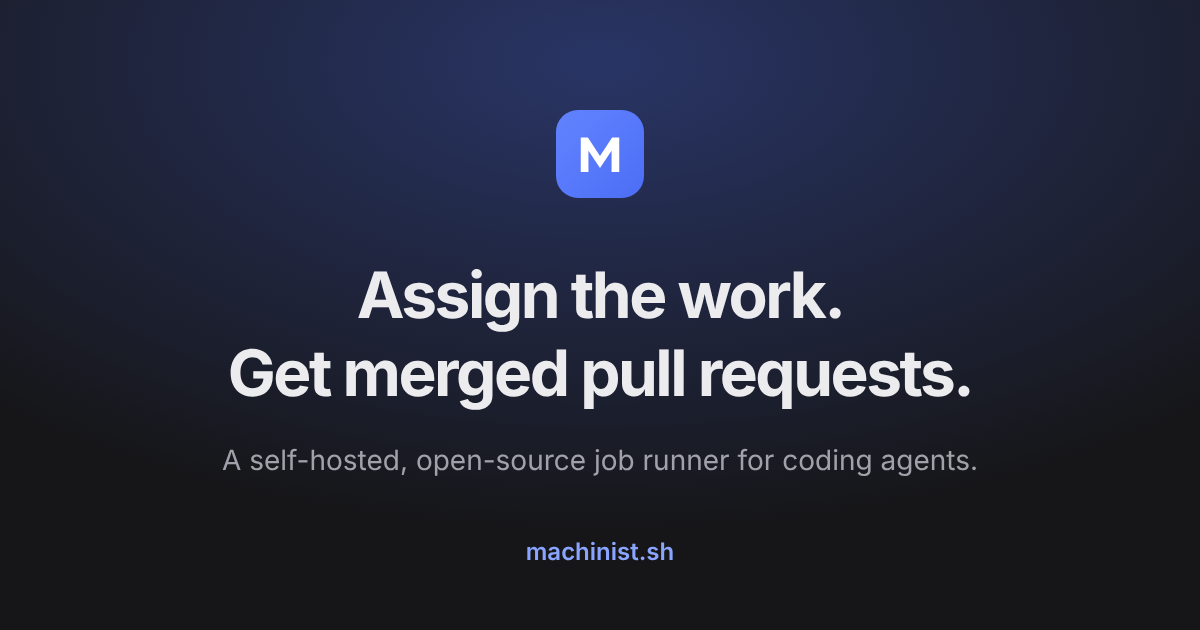
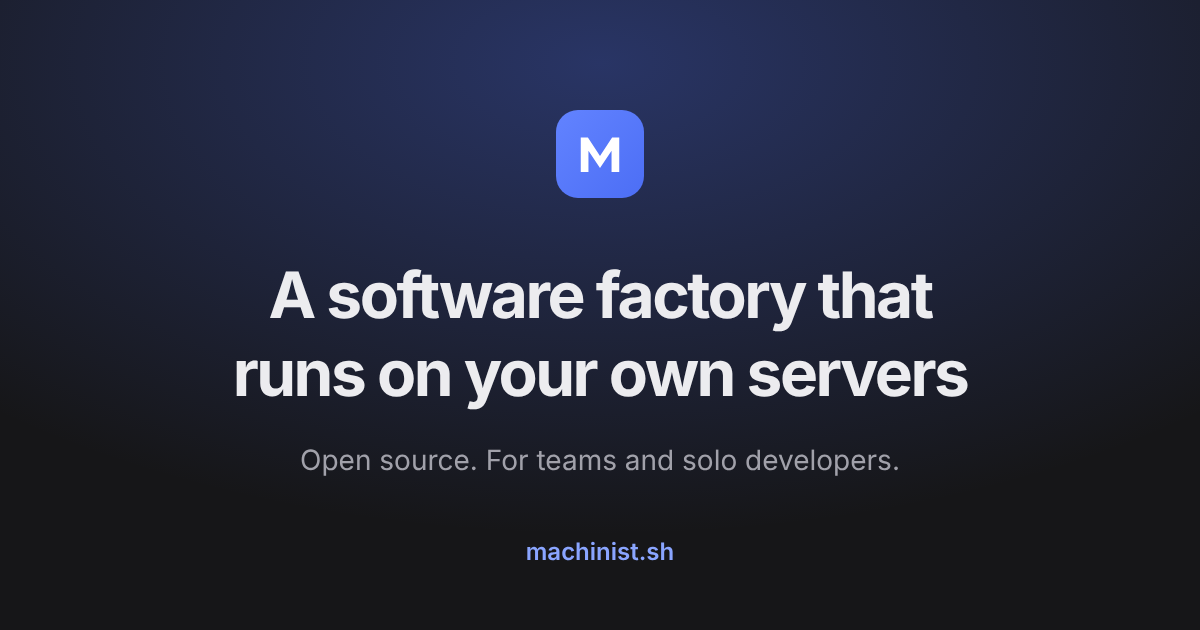
Rewrite the site copy in plain words: what Machinist is and who it is for

Changed region(s): [[0.2158, 0.4222, 0.8017, 0.5429], [0.185, 0.5429, 0.8325, 0.6635], [0.185, 0.6937, 0.8017, 0.754]]

diff --git a/.github/site/index.html b/.github/site/index.html
@@ -3,19 +3,19 @@
   <head>
     <meta charset="utf-8">
     <meta name="viewport" content="width=device-width, initial-scale=1">
-    <meta name="description" content="Machinist is an open-source job runner for coding agents. Assign work from the web app, the run API or Linear, and every job runs the same steps on machines you control.">
+    <meta name="description" content="Machinist is an open-source software factory. It runs on your own servers. It takes coding tasks, runs AI coding agents on them and opens pull requests. It is for teams and solo developers.">
     <meta name="theme-color" content="#161618">
     <meta name="color-scheme" content="dark">
-    <title>Machinist | A job runner for coding agents</title>
+    <title>Machinist | A self-hosted software factory</title>
     <link rel="canonical" href="https://machinist.sh/">
     <meta property="og:type" content="website">
     <meta property="og:url" content="https://machinist.sh/">
-    <meta property="og:title" content="Machinist | A job runner for coding agents">
-    <meta property="og:description" content="Assign the work. Get merged pull requests. Self-hosted and open source.">
+    <meta property="og:title" content="Machinist | A self-hosted software factory">
+    <meta property="og:description" content="An open-source software factory that runs on your own servers. For teams and solo developers.">
     <meta property="og:image" content="https://machinist.sh/og.png">
     <meta name="twitter:card" content="summary_large_image">
-    <meta name="twitter:title" content="Machinist | A job runner for coding agents">
-    <meta name="twitter:description" content="Assign the work. Get merged pull requests. Self-hosted and open source.">
+    <meta name="twitter:title" content="Machinist | A self-hosted software factory">
+    <meta name="twitter:description" content="An open-source software factory that runs on your own servers. For teams and solo developers.">
     <meta name="twitter:image" content="https://machinist.sh/og.png">
     <link rel="icon" href="favicon.svg" type="image/svg+xml">
     <link rel="stylesheet" href="styles.css">
@@ -28,6 +28,7 @@
           <span>Machinist</span>
         </a>
         <nav aria-label="Primary navigation">
+          <a href="#who">Who it is for</a>
           <a href="#how">How it works</a>
           <a href="#presets">Presets</a>
           <a href="https://github.com/owainlewis/machinist/tree/main/docs">Docs</a>
@@ -39,9 +40,9 @@
 
     <main id="top">
       <section class="hero" aria-labelledby="hero-title">
-        <a class="eyebrow-pill" href="https://github.com/owainlewis/machinist"><span>Open source</span>Self-hosted job runner for coding agents <span aria-hidden="true">→</span></a>
-        <h1 id="hero-title">Assign the work.<br>Get merged pull requests.</h1>
-        <p class="lede">Your team assigns work in one place. Every job runs the same steps on machines you control: an agent implements it, a second model reviews it, and Machinist ships it.</p>
+        <a class="eyebrow-pill" href="https://github.com/owainlewis/machinist"><span>Open source</span>MIT licensed, on GitHub <span aria-hidden="true">→</span></a>
+        <h1 id="hero-title">A software factory that runs on your own servers</h1>
+        <p class="lede">Machinist takes coding tasks and turns them into pull requests. AI coding agents do the work. They run on machines you control. Machinist is for teams and for solo developers.</p>
         <div class="hero-actions">
           <a class="button button-light" href="#start">Get started</a>
           <a class="button button-ghost" href="https://github.com/owainlewis/machinist">View on GitHub</a>
@@ -50,7 +51,7 @@
 
         <figure class="video-frame">
           <div class="window-bar" aria-hidden="true"><i></i><i></i><i></i><span>How Machinist works · 0:50</span></div>
-          <video id="explainer" src="machinist.mp4" poster="poster.jpg" autoplay muted loop playsinline preload="metadata" aria-label="A 50-second explainer of how a job moves through Machinist"></video>
+          <video id="explainer" src="machinist.mp4" poster="poster.jpg" autoplay muted loop playsinline preload="metadata" aria-label="A 50-second video that shows how a job moves through Machinist"></video>
           <button class="sound-toggle" type="button" data-sound aria-pressed="false">Sound on</button>
         </figure>
       </section>
@@ -62,30 +63,41 @@
         </ul>
       </section>
 
+      <section class="section" id="who" aria-labelledby="who-title">
+        <div class="section-head">
+          <span class="kicker">Who it is for</span>
+          <h2 id="who-title">Teams and solo developers</h2>
+        </div>
+        <div class="feature-grid feature-grid-two">
+          <article><h3>Teams</h3><p>Everyone sends tasks to one place. Everyone can see what is running and what needs a review. The runners sit on your network, next to your code and keys.</p></article>
+          <article><h3>Solo developers</h3><p>Run Machinist and a runner on your laptop. Hand off a task, then review the pull request. You do not need to watch the agent work.</p></article>
+        </div>
+      </section>
+
       <section class="section" id="how" aria-labelledby="how-title">
         <div class="section-head">
           <span class="kicker">How it works</span>
-          <h2 id="how-title">One job. Five steps. No babysitting.</h2>
-          <p>A job runs headless from start to finish and never stops to ask a question. When the agent has to guess, it says so in the pull request.</p>
+          <h2 id="how-title">How a job runs</h2>
+          <p>Each task is a job. A job runs the same steps every time. It does not stop to ask questions. If an agent has to guess, it says so in the pull request.</p>
         </div>
         <ol class="steps">
-          <li><span class="step-index">01</span><h3>Assign</h3><p>Start a job from the New job form, the run API, or by assigning a Linear issue to Machinist.</p></li>
-          <li><span class="step-index">02</span><h3>Checkout</h3><p>A runner on your own machine takes the job and clones the repository onto its own branch.</p></li>
-          <li><span class="step-index">03</span><h3>Implement</h3><p>An agent makes the change, with tests that prove it, and runs the repository's own checks.</p></li>
-          <li><span class="step-index">04</span><h3>Review</h3><p>A second model family reads the diff cold. A revise step fixes any clear finding.</p></li>
-          <li><span class="step-index">05</span><h3>Ship</h3><p>A ready pull request with a clear description. Once checks pass and the review is clean, it merges.</p></li>
+          <li><span class="step-index">01</span><h3>Task</h3><p>Start a job from the web app, the run API or a Linear issue.</p></li>
+          <li><span class="step-index">02</span><h3>Checkout</h3><p>A runner takes the job. It clones the repository onto a new branch.</p></li>
+          <li><span class="step-index">03</span><h3>Implement</h3><p>An agent makes the change. It adds tests and runs the repository's checks.</p></li>
+          <li><span class="step-index">04</span><h3>Review</h3><p>An agent on a different model reviews the change. A revise step fixes what it finds.</p></li>
+          <li><span class="step-index">05</span><h3>Ship</h3><p>Machinist opens a pull request. It merges when CI passes and the review is clean. A Linear issue moves to Done.</p></li>
         </ol>
       </section>
 
       <section class="section split" id="presets" aria-labelledby="presets-title">
         <div class="split-copy">
           <span class="kicker">Presets and agents</span>
-          <h2 id="presets-title">Your process is a few short files.</h2>
-          <p>A preset is a list of steps. A step runs shell or one of your agents. An agent is a prompt file that names its harness and model, so you can put Claude Code on the work and Codex on the review.</p>
+          <h2 id="presets-title">You set the steps in files</h2>
+          <p>A preset is a list of steps in YAML. A step runs a shell script or an agent. An agent is a Markdown file. It holds a prompt. Its header names the harness and the model. One step can use Claude Code and the next can use Codex.</p>
           <ul class="check-list">
-            <li>Change how work ships by editing a file, not code</li>
-            <li>Keep the factory in git, reviewed like everything else</li>
-            <li>A test step is a gate an agent cannot skip</li>
+            <li>To change the steps, edit a file</li>
+            <li>Keep the files in git and review them like code</li>
+            <li>A failed shell step stops the job</li>
           </ul>
           <a class="text-link" href="https://github.com/owainlewis/machinist/blob/main/docs/factory.md">Read about factory files <span aria-hidden="true">→</span></a>
         </div>
@@ -110,32 +122,32 @@
 <pre><code><span class="c-dim">---</span>
 <span class="c-key">harness</span>: codex
 <span class="c-dim">---</span>
-Review the change on this branch,
-as a careful senior engineer would.</code></pre>
+Review the change on this branch.
+List each problem you find.</code></pre>
           </div>
         </div>
       </section>
 
       <section class="section" aria-labelledby="features-title">
         <div class="section-head">
-          <span class="kicker">Built for teams</span>
-          <h2 id="features-title">Build the system. Stop being the bottleneck.</h2>
+          <span class="kicker">Features</span>
+          <h2 id="features-title">What Machinist does</h2>
         </div>
         <div class="feature-grid">
-          <article><h3>Runs where you choose</h3><p>A runner is a small daemon that dials out for work. Start one on a Mac, a VM or a Kubernetes cluster. None needs an inbound route.</p></article>
-          <article><h3>Any harness, any model</h3><p>Claude Code, Codex or Pi, each with the model you pick. Each step can use a different one.</p></article>
-          <article><h3>A second opinion on every change</h3><p>The review step runs before anything ships, and the revise step fixes what it finds.</p></article>
-          <article><h3>Ships on its own, or waits for you</h3><p>Auto-merge is on by default. Set <code>github.auto_merge: false</code> and every pull request waits for a person.</p></article>
-          <article><h3>Linear in, Linear out</h3><p>Assign an issue to Machinist and it starts a job. When the pull request merges, the issue moves to Done.</p></article>
-          <article><h3>One place to see it all</h3><p>A dashboard of jobs, runs, success rate and tokens, a board of what is queued and running, and every step's output.</p></article>
+          <article><h3>Runs on your machines</h3><p>A runner is a small program. It asks the control plane for work. Run it on a Mac, a VM or Kubernetes. It needs no open inbound port.</p></article>
+          <article><h3>Choose the harness and model</h3><p>Use Claude Code, Codex or Pi. Choose a model for each step.</p></article>
+          <article><h3>Review by a second model</h3><p>A different model reviews each change before it ships. The revise step fixes what the review finds.</p></article>
+          <article><h3>Auto-merge you can turn off</h3><p>By default, a pull request merges when its checks pass. Set <code>github.auto_merge: false</code> to merge each one yourself.</p></article>
+          <article><h3>Linear</h3><p>Assign a Linear issue to Machinist to start a job. When the pull request merges, the issue moves to Done.</p></article>
+          <article><h3>Dashboard</h3><p>See each job, its status and the output of each step. See the success rate and token use. Cost shows when the harness reports it.</p></article>
         </div>
       </section>
 
       <section class="section api" aria-labelledby="api-title">
         <div class="section-head">
           <span class="kicker">Run API</span>
-          <h2 id="api-title">Start a job from anything.</h2>
-          <p>A tracker, a schedule, a webhook or <code>curl</code>. One request starts a job, and a retried request starts it once.</p>
+          <h2 id="api-title">Start a job with one request</h2>
+          <p>Send a POST request to start a job. A tracker, a cron job or a webhook can do this. Each request has a key. If you send the same key twice, Machinist starts one job.</p>
         </div>
         <div class="code-window code-window-wide">
           <div class="code-bar"><span>Terminal</span></div>
@@ -148,16 +160,16 @@ as a careful senior engineer would.</code></pre>
       <section class="section" id="start" aria-labelledby="start-title">
         <div class="section-head">
           <span class="kicker">Get started</span>
-          <h2 id="start-title">Run your first job in minutes.</h2>
-          <p>You need Go, Git, the GitHub CLI signed in, and Claude Code signed in. No Machinist cloud account.</p>
+          <h2 id="start-title">Run it on your computer</h2>
+          <p>You need Go, Git, the GitHub CLI and Claude Code. Sign in to the GitHub CLI and Claude Code first. You do not need a Machinist account.</p>
         </div>
         <ol class="setup-steps">
           <li>
-            <div><span class="step-index">01</span><h3>Build</h3><p>One binary holds the CLI, the control plane, the runner and the web app. Put it on your PATH.</p></div>
+            <div><span class="step-index">01</span><h3>Build</h3><p>Build one program. It has the CLI, the control plane, the runner and the web app. Add it to your PATH.</p></div>
             <button class="copy-command" type="button" data-copy="go build -o ./bin/machinist ./cmd/machinist &amp;&amp; export PATH=&quot;$PWD/bin:$PATH&quot;" aria-label="Copy build command"><code>go build -o ./bin/machinist ./cmd/machinist &amp;&amp; export PATH=&quot;$PWD/bin:$PATH&quot;</code><span aria-live="polite">Copy</span></button>
           </li>
           <li>
-            <div><span class="step-index">02</span><h3>Initialize</h3><p>In a new directory you keep in git, write the configuration, a local runner and a starter factory.</p></div>
+            <div><span class="step-index">02</span><h3>Initialize</h3><p>Make a new directory and keep it in git. Run this there. It writes the config, a runner and the starter steps.</p></div>
             <button class="copy-command" type="button" data-copy="machinist init" aria-label="Copy initialize command"><code>machinist init</code><span aria-live="polite">Copy</span></button>
           </li>
           <li>
@@ -165,7 +177,7 @@ as a careful senior engineer would.</code></pre>
             <button class="copy-command" type="button" data-copy="gh api user --jq .login" aria-label="Copy command that prints your GitHub login"><code>gh api user --jq .login</code><span aria-live="polite">Copy</span></button>
           </li>
           <li>
-            <div><span class="step-index">04</span><h3>Start</h3><p>Start the control plane, and <code>GH_TOKEN=$(gh auth token) machinist runner start</code> in a second terminal. Create a token with <code>machinist token create "$USER"</code>, sign in to the web app and select New job.</p></div>
+            <div><span class="step-index">04</span><h3>Start</h3><p>Start the control plane. In a second terminal, run <code>GH_TOKEN=$(gh auth token) machinist runner start</code>. Make a token with <code>machinist token create "$USER"</code>. Sign in to the web app and select New job.</p></div>
             <button class="copy-command" type="button" data-copy="GH_TOKEN=$(gh auth token) machinist start" aria-label="Copy start command"><code>GH_TOKEN=$(gh auth token) machinist start</code><span aria-live="polite">Copy</span></button>
           </li>
         </ol>
@@ -174,8 +186,8 @@ as a careful senior engineer would.</code></pre>
 
       <section class="final-cta">
         <span class="brand-mark brand-mark-large" aria-hidden="true">M</span>
-        <h2>Put your coding agents on a production line.</h2>
-        <p>Open source under the MIT License. Runs on machines you control.</p>
+        <h2>Machinist is open source</h2>
+        <p>It uses the MIT License. You run it on your own machines.</p>
         <div class="hero-actions">
           <a class="button button-light" href="https://github.com/owainlewis/machinist#quick-start">Get started</a>
           <a class="button button-ghost" href="https://github.com/owainlewis/machinist/tree/main/docs">Read the docs</a>

diff --git a/.github/site/site.test.js b/.github/site/site.test.js
@@ -109,6 +109,19 @@ test('setup snippets match the quick start in the README', async () => {
   }
 });
 
+test('the page says what Machinist is and who it is for, in plain words', async () => {
+  const source = await read('./index.html');
+  const socialCard = await read('./social-card.svg');
+  assert.match(source, /<h1 id="hero-title">A software factory that runs on your own servers<\/h1>/);
+  assert.match(source, /<h2 id="who-title">Teams and solo developers<\/h2>/);
+  for (const text of [source, socialCard]) {
+    assert.match(text, /software factory/);
+    assert.match(text, /solo developers/);
+  }
+  // Slogans from the old copy that said nothing about the product.
+  assert.doesNotMatch(source, /production line|babysitting|bottleneck|Get merged pull requests|—/);
+});
+
 test('public identity matches the web app: Inter, indigo and the M tile, dark only', async () => {
   const source = await read('./index.html');
   const styles = await read('./styles.css');
@@ -122,7 +135,6 @@ test('public identity matches the web app: Inter, indigo and the M tile, dark on
   }
   assert.match(styles, /Inter Variable/);
   assert.match(source, /class="brand-mark"/);
-  assert.match(source, /Assign the work\.<br>Get merged pull requests\./);
   assert.match(source, /<meta name="color-scheme" content="dark">/);
   assert.doesNotMatch(source, /technical-drawings|fonts\.googleapis\.com|machinist-bot/);
   assert.doesNotMatch(styles, /Manrope|Newsreader|#1d6683/);

diff --git a/.github/site/styles.css b/.github/site/styles.css
@@ -154,3 +154,5 @@ footer { margin-top: 96px; border-top: 1px solid var(--border); }
   .button { transition: none; }
   .button:hover { transform: none; }
 }
+.feature-grid.feature-grid-two { grid-template-columns: repeat(2, minmax(0, 1fr)); }
+@media (max-width: 680px) { .feature-grid.feature-grid-two { grid-template-columns: minmax(0, 1fr); } }
